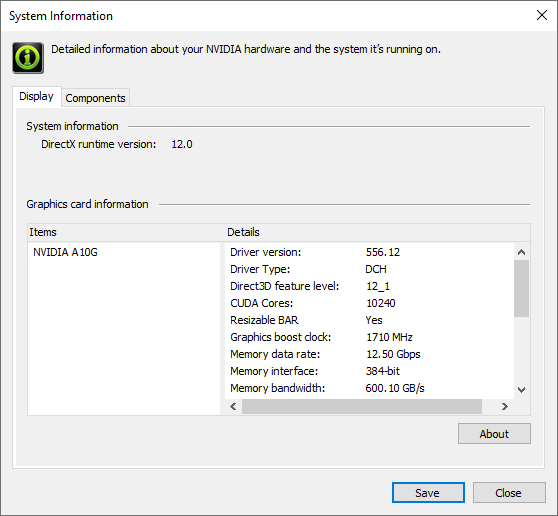
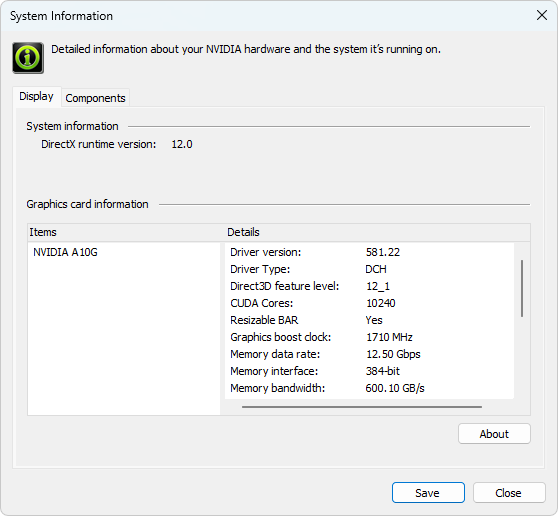
レイトレ合宿11の環境の記述。

diff --git a/AWS101.md b/AWS101.md
@@ -19,7 +19,7 @@
 
 <!-- /TOC -->
 
-各種情報確認日時：2024/07/22
+各種情報確認日時：2025/09/23
 
 ## 用語
 
@@ -53,16 +53,17 @@ AMI: Amazon Machine Image
 
 ## EC2の課金について
 インスタンス参考課金額 (東京, Windows)
-| インスタンスタイプ | 料金<br/>USD/h/inst | CPU | System Mem | GPU | GPU Mem | ストレージ | インスタンスストア | 備考 |
-| - | - | - | - | - | - | - | - | - |
-| [t2.micro](https://aws.amazon.com/jp/ec2/instance-types/t2/) | 0.0198 | 1 vCPU | 1 GiB | N/A | N/A | EBS | N/A | EC2おためしに最適 |
-| [g5.xlarge](https://aws.amazon.com/jp/ec2/instance-types/g5/) | 1.643 | AMD EPYC 7R32<br>4 vCPU | 16 GiB | [NVIDIA A10G](https://www.nvidia.com/ja-jp/data-center/products/a10-gpu/) | 24 GiB | EBS | 250 GiB NVMe SSD | レイトレ合宿10<br>GPUインスタンス |
-| [c7i.metal-48xl](https://aws.amazon.com/jp/ec2/instance-types/c7i/) | 19.6176 | Intel Xeon Scalable<br/>[Sapphire Rapids](https://www.intel.co.jp/content/www/jp/ja/products/docs/processors/xeon-accelerated/4th-gen-xeon-scalable-processors.html)<br>192 vCPU | 384 GiB | N/A | N/A | EBS | N/A | レイトレ合宿10<br>CPUインスタンス |
+| インスタンスタイプ | 料金<br/>USD/h/inst | OS | CPU | System Mem | GPU | GPU Mem | ストレージ | インスタンスストア | 備考 |
+| - | - | - | - | - | - | - | - | - | - |
+| [t2.micro](https://aws.amazon.com/jp/ec2/instance-types/t2/) | 0.0198 | Windows | 1 vCPU | 1 GiB | N/A | N/A | EBS | N/A | EC2おためしに最適 |
+| [g5.xlarge](https://aws.amazon.com/jp/ec2/instance-types/g5/) | 1.643 | Windows | AMD EPYC 7R32<br>4 vCPU | 16 GiB | [NVIDIA A10G](https://www.nvidia.com/ja-jp/data-center/products/a10-gpu/) | 24 GiB | EBS | 250 GiB NVMe SSD | レイトレ合宿11<br>GPUインスタンス |
+| [c7i.metal-48xl](https://aws.amazon.com/jp/ec2/instance-types/c7i/) | 19.6176 | Windows | Intel Xeon Scalable<br/>[Sapphire Rapids](https://www.intel.co.jp/content/www/jp/ja/products/docs/processors/xeon-accelerated/4th-gen-xeon-scalable-processors.html)<br>192 vCPU | 384 GiB | N/A | N/A | EBS | N/A | レイトレ合宿11<br>CPUインスタンス |
+| [c8g.metal-48xl](https://aws.amazon.com/jp/ec2/instance-types/c8g/) | 9.60576 | Linux | AWS Graviton 4 (ARM)<br>192 vCPU | 384 GiB | N/A | N/A | EBS | N/A | レイトレ合宿11<br>CPUインスタンス |
 
 - 起動したインスタンスのタイプ、リージョン、OS等によって単価が変わり、起動時間に応じて課金されます。
   - 単価は一時間単位で示されていますが、課金は秒単位で行われます。
 - 起動したインスタンスを「停止」すると課金の大部分はストップしますが、EBSの課金は続きます。課金を完全にストップするにはインスタンスを「終了」する必要があります。
-  - 例: 汎用 SSD (gp2) ボリューム: 0.12 USD/GB/month (課金自体は秒単位)
+  - 例: 汎用 SSD (gp3) ボリューム: 0.096 USD/GB/month (課金自体は秒単位)
 - インスタンスの停止であれば再開時にデータは残っていますが、終了の場合インスタンスを立て直した際にはデータはまっさらになっています。インスタンスストアはリブート以外ではデータが消えるようです。
 - インスタンス停止時にEBS以外で課金される追加オプション(IP固定など)はありますが、デフォルトであればおそらくEBSのみです。
 - AWSサービスの使用においては常に自分が今どのリージョンの情報を見ているのか注意しましょう。例えば米国インスタンスを立ててもWebページ表示が東京リージョンになっていると起動中のインスタンスがぱっと見無いように見えるかもしれません。
@@ -103,7 +104,7 @@ g5インスタンスでは特殊なNVIDIAドライバーのインストールを
    1. 名前とタグ\
       あってもなくても良い。
    1. アプリケーションおよびOSイメージ\
-      クイックスタートから「Windows」を選択、「Microsoft Windows Server 2022 Base」を選択(されていることを確認)。
+      クイックスタートから「Windows」を選択、「Microsoft Windows Server 2025 Base」を選択(されていることを確認)。
    1. インスタンスタイプ\
       GPUインスタンスであれば「g5.xlarge」を選択。(インスタンス名紛らわしいので高いのを選ばないよう注意)\
       CPUインスタンスであれば「c7i.metal-48xl」だが、高価なので試すだけなら小さめのインスタンスで良い。
@@ -114,7 +115,7 @@ g5インスタンスでは特殊なNVIDIAドライバーのインストールを
    1. ストレージを設定\
       デフォルトの30GiBで足りない場合は値を変更する。(課金額もそんなに高くないですが上がります)\
       CUDAもインストールする場合は30GiBだと足りません。50-60GiBにすれば余裕があります。
-      ボリュームのタイプはデフォルトのgp2。
+      ボリュームのタイプはデフォルトのgp3。
    1. 高度な詳細\
       GPUインスタンスの場合は「IAMインスタンスプロフィール」として作成済みのIAMロールを選択。\
       CPUインスタンスの場合は「ユーザーデータ」に当リポジトリ内の `scripts/userdata.yml` の内容をコピー。
@@ -138,11 +139,11 @@ g5インスタンスでは特殊なNVIDIAドライバーのインストールを
 1. 当リポジトリ内の `scripts/semiauto_set_up.ps1` をデスクトップに転送する。
 1. CUDAツールキットの内容に依存しない場合は引数なしでPowerShellから次のように、\
    `C:\Users\Administrator\Desktop> .\semiauto_set_up.ps1`\
-   依存する場合はCUDA 12.5のインストーラーを転送して次のように\
+   依存する場合はCUDAのインストーラーを転送して次のように\
    `C:\Users\Administrator\Desktop> .\semiauto_set_up.ps1 path_to_cuda_installler`\
    スクリプトを実行。しばらく待つ。CUDA無しだと6分半くらいかかった。(よくある罠としてPowerShellなどでテキスト選択状態になってしまうとログが進まないので注意。)
 
-- 2024/07/20時点では以下の画像に示すドライバーがインストールされました。\
+- 2025/09/23時点では以下の画像に示すドライバーがインストールされました。\
   <img src="images/nv_system_info.png">
 
 #### インスタンスの終了
@@ -153,7 +154,7 @@ g5インスタンスでは特殊なNVIDIAドライバーのインストールを
 
 - 終了したインスタンス(「終了済み」ステータス)はおそらく1時間ほどは一覧に残る模様。
 - EBSの課金額はそこまで大したことはないのですぐにまた同じインスタンス構成で使う予定がある場合は終了の代わりに停止しておくと手軽。ただし実際に使用されている量ではなく最初に設定したサイズで課金される点には注意。\
-  gp2ボリュームであれば 0.12 USD/GB/month なので100GBで一日放置すると 0.4 USD。
+  gp3ボリュームであれば 0.096 USD/GB/month なので100GBで一日放置すると 0.32 USD。
 - 課金の確認(1-2日程度ラグがあります)はAWSマネジメントコンソールの自分の名前が表示されているところをクリック、「Billing and Cost Management」 > 「請求書」から行えます。\
   <img src="images/billing.png">
 
@@ -162,8 +163,8 @@ g5インスタンスでは特殊なNVIDIAドライバーのインストールを
 基本は上記の一から作る手順と同じ。差異は以下。
 
 - アプリケーションおよびOSイメージ\
-  「その他のAMIを閲覧する」をクリック、検索欄に"RTCamp10"と入力して検索すると「コミュニティAMI」のタブ内に"RTCamp10_GPU"というAMIが見つかるはず。これを選択。
-  <img src="images/ami_rtcamp10_gpu.png">
+  「その他のAMIを閲覧する」をクリック、検索欄に"RTCamp11"と入力して検索すると「コミュニティAMI」のタブ内に"RTCamp11_GPU"というAMIが見つかるはず。これを選択。
+  <img src="images/ami_rtcamp11_gpu.png">
 - 高度な詳細\
   NVIDIAドライバーはインストール済みなのでS3アクセス用のIAMロールの設定は不要。\
   今回はGPUインスタンスも「ユーザーデータ」に当リポジトリ内の `scripts/userdata.yml` の内容をコピー。
@@ -224,7 +225,7 @@ foreach ($obj in $objects) {
 
 - 実行ファイルが何に依存しているかは [Dependencies](https://github.com/lucasg/Dependencies) などを使えば簡単にわかります。
 - g5インスタンスでDXR, VkRT, OptiXのアプリケーションが起動することを確認しました。\
-  <img src="images/rtxgi_d3d12.png" width=40%> <img src="images/rtxgi_vk.png" width=40%>
+  <img src="images/rtxpt_d3d12.png" width=75%>
 - NVIDIAドライバーに基本的なCUDA実行環境が含まれているため、簡単なOptiXのプログラムならCUDA Toolkitのインストール無しで起動できました。cuBLASなどを使っている場合はCUDA Toolkitのインストールが必要になると思います。
 
 ## 参考
@@ -235,5 +236,5 @@ foreach ($obj in $objects) {
 - [Amazon S3 の料金](https://aws.amazon.com/jp/s3/pricing/)
 - [EC2の揮発性ストレージ「インスタンスストア」を使ってみよう！](https://dev.classmethod.jp/articles/howto-ec2-volatile-block-storage-instance-store/)
 - [インスタンスストアとは](https://qiita.com/miyuki_samitani/items/d5a38ef26f172311ade1)
-- [Instances Presented by Vantage](https://instances.vantage.sh/?compare_on=true)
+- [Instances Presented by Vantage](https://instances.vantage.sh/)
 - [S3の料金体系が分かりにくいと聞かれたので纏めた](https://qiita.com/kawaz/items/07d67a851fd49c1c183e)

diff --git a/how_to_create_AMI.md b/how_to_create_AMI.md
@@ -1,30 +1,39 @@
+# EC2のAMI作成手順
+
 1. 各種Windows設定
    - Dark Mode
    - ゴミ箱削除確認
    - ファイル拡張子
    - 隠しファイル表示
    - VSCode
-   - Python拡張
+     - VS Keymap
+     - Python拡張
+   - Powershell最新バージョン
+   - Windows Terminal設定
+   - x64再頒布可能パッケージなどがインストールされていることを確認
+   - Windows Defender設定
 2. semiauto_set_up.ps1を実行
 3. 不要ファイル削除
 4. EC2のインスタンス一覧から
    1. アクション > イメージとテンプレート > イメージを作成
-   2. イメージ名と説明を入力、「再起動しない」にはチェックをいれない、「終了時に削除」はチェックそのまま
+   2. イメージ名と説明を入力、「インスタンスを再起動」と「終了時に削除」にチェックが入っていることを確認\
+      (これは仮のイメージになるので最終的なイメージ名は使わない方が良い。)
    3. イメージを作成をクリック。
 5. EC2のAMIの欄にイメージが表示される。
-   10分ほど待つと利用可能ステータスになる。
+   5-20分ほど待つと利用可能ステータスになった。
 6. この時点で元のインスタンスは終了して良い。
 7. AMIを選択し、「AMIからインスタンスを起動」をクリック。
    - 元と同じインスタンスタイプやネットワーク設定を選択
 8. 起動したインスタンスにRDP
    - 元のインスタンスと同じパスワードでつながる。
-   1. スタートメニューから
-      Amazon Web Services > Amazon EC2Launch settings
+   1. スタートメニューからAmazon EC2Launch settings
    2. Administrator password settingsがRandom (retrieve from console)になっていることを確認。
    3. Shutdown with Sysprepをクリック
       You have unsaved changes...というダイアログが出るがシャットダウン。
       この後このインスタンスは起動しないこと。
+   4. 停止済みになるのを待つ。
 9. 4-5を再度起動中のインスタンスに対して実施。
+   (最終的なイメージ名をつける。)
 10. AMIからインスタンスを起動する。
     Windowsのパスワード復号には10分弱待つ必要があった。
 

diff --git a/exec_env_spec.md b/exec_env_spec.md
@@ -6,6 +6,7 @@
 
 ざっくりレイトレ合宿10からの変更点：
 
+- ARM CPUインスタンス c8g.metal-48xl (Linux) を追加、x86のCPUインスタンス、GPUインスタンスは変更なし。
 - 制限時間は180秒です。
 - 明示的な静止画の提出を廃止しました。
 - 版権物のレンダリングを禁止します。
@@ -43,9 +44,9 @@ EC2インスタンスは以下のいずれか：
 | - | - | - | - | - | - | - | - | - |
 | [g5.xlarge](https://aws.amazon.com/jp/ec2/instance-types/g5/) | 1.643 | Windows | AMD EPYC 7R32<br>4 vCPU | 16 GiB | [NVIDIA A10G](https://www.nvidia.com/ja-jp/data-center/products/a10-gpu/) | 24 GiB | EBS | 250 GiB NVMe SSD |
 | [c7i.metal-48xl](https://aws.amazon.com/jp/ec2/instance-types/c7i/) | 19.6176 | Windows | Intel Xeon Scalable<br/>[Sapphire Rapids](https://www.intel.co.jp/content/www/jp/ja/products/docs/processors/xeon-accelerated/4th-gen-xeon-scalable-processors.html)<br>192 vCPU | 384 GiB | N/A | N/A | EBS | N/A |
-| [c8i.metal-48xl](https://aws.amazon.com/jp/ec2/instance-types/c8g/) | 9.60576 | Linux | AWS Graviton 4 (ARM)<br>192 vCPU | 384 GiB | N/A | N/A | EBS | N/A |
+| [c8g.metal-48xl](https://aws.amazon.com/jp/ec2/instance-types/c8g/) | 9.60576 | Linux | AWS Graviton 4 (ARM)<br>192 vCPU | 384 GiB | N/A | N/A | EBS | N/A |
 
-- Windows OSはWindows Server 2022 Baseを使います。
+- Windows OSはWindows Server 2025 Baseを使います。
 - python 3.11.4がインストールされています。\
   pythonライブラリとしては数値計算用にnumpy, scipy、画像処理にPillow、SSH操作用にparamikoをインストールしています。
 - GPUインスタンスはDirectX 12, Vulkan, OptiX 9.0が動作するドライバー、CUDA 13.0.1がインストールされています。
